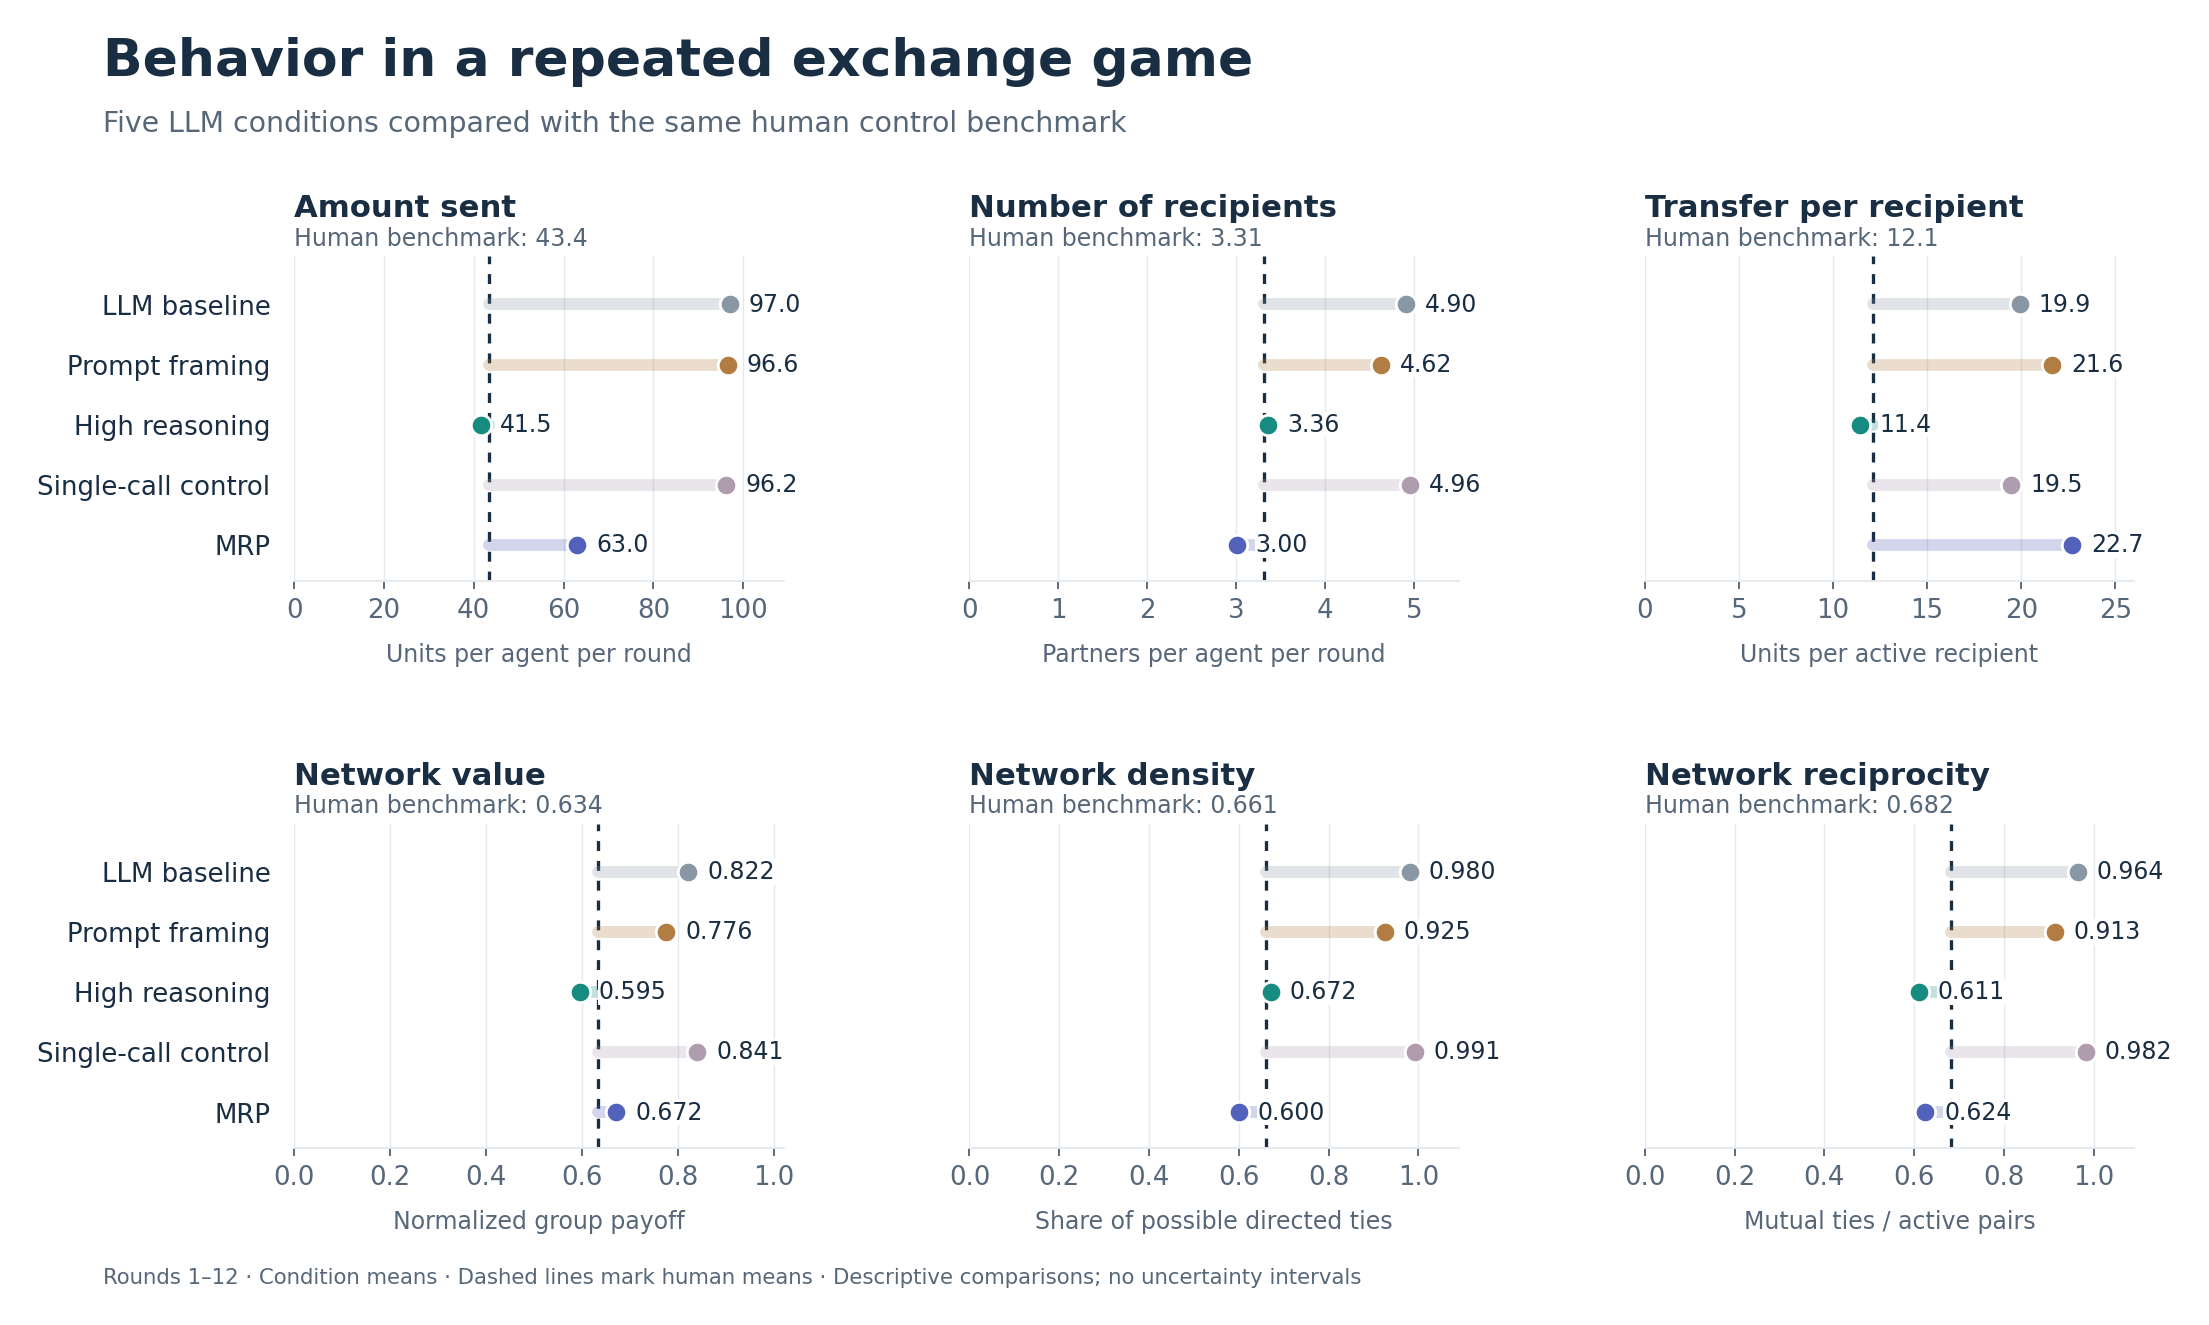
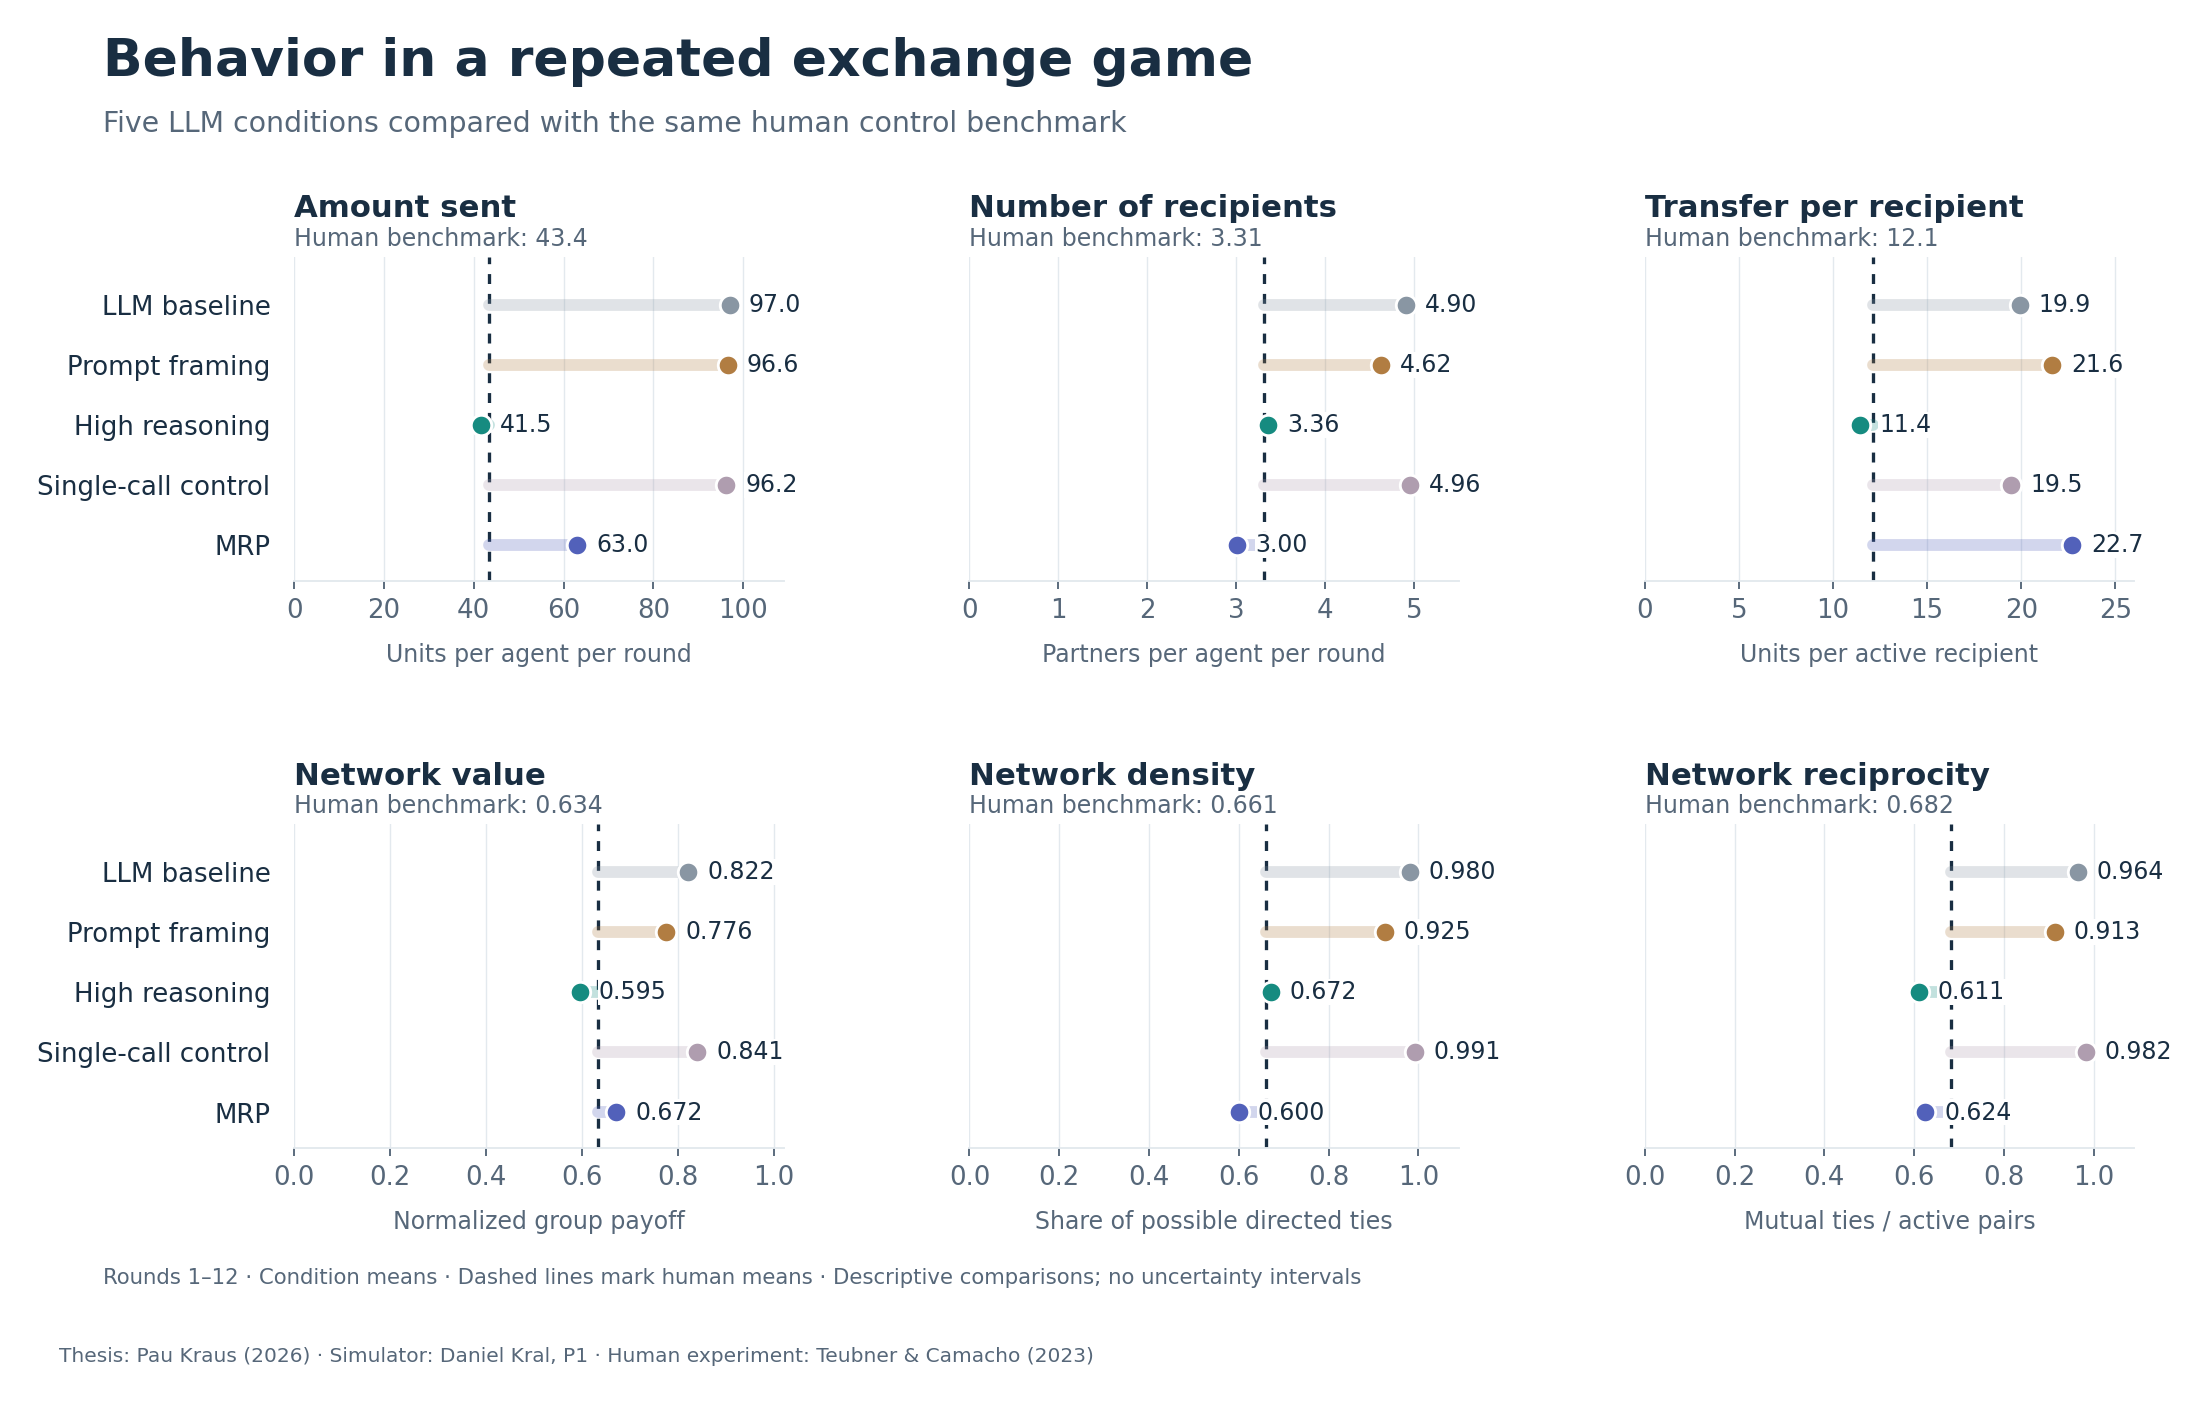
Clarify original simulator attribution and contribution boundaries

diff --git a/scripts/build_figures.py b/scripts/build_figures.py
@@ -42,6 +42,10 @@ def style():
 
 def save(fig, name):
     OUT.mkdir(exist_ok=True)
+    credit = ('MRP adaptation: Pau Kraus · Architecture: Park et al. (2023) · Simulator: Daniel Kral, P1'
+              if name == 'mrp_protocol' else
+              'Thesis: Pau Kraus (2026) · Simulator: Daniel Kral, P1 · Human experiment: Teubner & Camacho (2023)')
+    fig.text(0.055, -0.035, credit, fontsize=8.5, color=MUTED)
     fig.savefig(OUT / f'{name}.png', dpi=170, bbox_inches='tight', pad_inches=0.22)
     svg = OUT / f'{name}.svg'
     fig.savefig(svg, bbox_inches='tight', pad_inches=0.22, metadata={'Date': None})

diff --git a/README.md b/README.md
@@ -5,6 +5,11 @@
 A visual research portfolio for my thesis, *Engineering Behavioral Fidelity in
 LLM Agents for Economic Simulations*.
 
+**Built on Daniel Kral's original P1 implementation**, which recreates the
+repeated exchange game of [Teubner and Camacho (2023)](https://doi.org/10.1007/s10726-023-09814-4).
+My thesis extends that foundation with the interventions and analysis presented
+here. Daniel also supervised the thesis. [Contributions and attribution](ATTRIBUTION.md).
+
 ### Can LLM agents reproduce human behavior in this repeated game?
 
 I study **one repeated, six-player gift-exchange game**: how much agents share,
@@ -159,18 +164,25 @@ are maintained separately for research inspection.
 | [Li & Shirado (2025)](https://aclanthology.org/2025.emnlp-main.267/) | Prior evidence relating deliberation to changes in giving; motivation for examining a reasoning-effort intervention here. |
 | [Park et al. (2023)](https://arxiv.org/abs/2304.03442) | The architectural precedent for memory, reflection, and planning; adapted here into a periodic protocol for repeated exchange. |
 
-The numerical LLM results shown above come from **my thesis runs**. The human
+The numerical LLM results shown above come from **my thesis runs on the
+extended P1 implementation originally developed by Daniel Kral**. The human
 values are reconstructed from the original control data. The cited studies
 supply the benchmark or motivate the design; they are not the source of these
 intervention results. [Full references and scope of each citation](docs/REFERENCES.md).
 
-## My contribution
+## Contributions
 
-Building on Daniel Kral's original exchange-game implementation, I developed
-and evaluated the thesis interventions, including the periodic MRP architecture
-and its single-call comparison. I assembled the final experimental evidence,
-compared agent behavior with the human benchmark, and analyzed both aggregate
-outcomes and relationship-level dynamics.
+| Contributor | Contribution |
+| :--- | :--- |
+| **Timm Teubner and Sonia Camacho** | The original human experiment, repeated-game design, and human benchmark |
+| **Daniel Kral** | The original P1 implementation that recreates the experiment with LLM agents; the software foundation used for the thesis; thesis supervision |
+| **Pau Kraus** | Thesis interventions and their evaluation, including the periodic MRP adaptation and single-call comparison; final thesis runs, behavioral comparisons, analysis, and this public showcase |
+| **Park and colleagues** | The published architectural precedent for combining memory, reflection, and planning |
+
+My work extends the existing game implementation. The thesis contribution is
+in the interventions and evaluation of behavioral fidelity within that repeated
+game. The original game, human dataset, and base LLM simulator are credited to
+their respective authors above.
 
 The work combines **Python agent development, experimental design, network
 analysis, longitudinal statistical models, and reproducibility checks**. The
@@ -178,8 +190,9 @@ research archive includes offline replay checks covering all 30 LLM cohorts.
 
 ## Explore the results yourself
 
-The code in this showcase is newly written to reproduce these visualizations
-from the included aggregate tables and illustrate the protocol. It runs
+This repository contains standalone code written for the showcase. It
+reproduces the visualizations from the included aggregate tables and illustrates
+the MRP schedule. It runs
 without an API key or access to participant records. It does not rerun the
 original experiments or refit the thesis's statistical models.
 
@@ -223,4 +236,6 @@ research archive.
 Please distinguish this showcase and its thesis results from the underlying
 human experiment and architectural literature when citing them. Use
 [CITATION.cff](CITATION.cff) for the showcase and
-[the reference list](docs/REFERENCES.md) for the original sources.
+[the reference list](docs/REFERENCES.md) for the original sources. The
+showcase citation identifies this repository only; it does not attribute the
+underlying simulator or human experiment to Pau Kraus.

diff --git a/ATTRIBUTION.md b/ATTRIBUTION.md
@@ -1,0 +1,49 @@
+# Contributions and attribution
+
+This repository presents Pau Kraus's thesis extensions and findings within a
+research project built on existing experimental work and software.
+
+## The research foundation
+
+**Timm Teubner and Sonia Camacho** developed the original human repeated
+exchange experiment. Their control-treatment evidence supplies the human
+benchmark. The game design and human data are attributed to them.
+
+**Daniel Kral** developed *P1*, the original implementation recreating that
+experiment with LLM agents, and supervised the thesis. His software supplies
+the experimental foundation, including the base game implementation from which
+the thesis's baseline and intervention conditions were run.
+
+**Pau Kraus** extended that implementation for the thesis interventions,
+conducted their evaluation, and assembled the final thesis runs, comparisons,
+and analysis. The periodic memory–reflection–planning adaptation builds on
+the architectural ideas of **Park and colleagues (2023)**.
+
+Full source details are in [the reference list](docs/REFERENCES.md).
+
+## What is included here
+
+The public Python files are standalone scripts written for this showcase:
+plotting the aggregate tables, comparing means, illustrating the MRP update
+schedule, and checking those calculations. The figures are generated by these
+scripts. They present thesis results obtained using the extended research
+implementation; their labels credit that experimental foundation.
+
+The aggregate result tables preserve the provenance of the LLM thesis runs and
+the separate human experiment. This repository does not contain P1's simulator
+modules, original prompt templates, raw participant records, full model
+transcripts, or the thesis manuscript. The example schedule illustrates the
+protocol and is not the implementation that generated the experimental data.
+
+## Respecting the private source
+
+Daniel's source repository carries an all-rights-reserved notice restricting
+redistribution and publication of its code without explicit permission. This
+showcase does not grant rights to that private implementation or imply
+permission to republish it. Attribution records the contribution; publishing
+any original implementation material would require the appropriate permission.
+
+The showcase citation names Pau Kraus for this repository. It does not claim
+authorship of the original simulator, human experiment, or general MRP idea,
+and it does not imply endorsement or coauthorship of the showcase by its cited
+contributors.

diff --git a/data/README.md b/data/README.md
@@ -1,6 +1,9 @@
 # Data in this showcase
 
-These are aggregate outputs of Pau Kraus's submitted master's thesis. No
+These are aggregate outputs of Pau Kraus's submitted master's thesis. The
+LLM results were produced with the thesis extensions to Daniel Kral's original
+P1 implementation. The human control evidence comes from Teubner and Camacho
+(2023). These sources are distinct from the visualization code supplied here. No
 participant-level records, individual model transcripts, or manuscript files
 are included.
 
@@ -28,3 +31,6 @@ formation is undefined. Other displayed relationship measures use all cohorts.
 The visualization scripts are newly written for this showcase. Figures are
 generated directly from these tables. The original simulator, statistical
 fitting code, and raw experimental archive are maintained separately.
+
+See [contributions and attribution](../ATTRIBUTION.md) for the scope of the
+public material and the original implementation credit.

diff --git a/docs/REFERENCES.md b/docs/REFERENCES.md
@@ -21,7 +21,9 @@ avatars; those treatment effects are outside this thesis's tested scope.
 **Kral, D. (2026).** *P1* [Research software; private repository], version
 `1534a41ac07748724cf62b198046da9235de6c3c`. GitHub, `Sertorius73/P1`.
 
-Daniel Kral provided the LLM recreation of the game and supervised the thesis.
+Daniel Kral developed the original LLM recreation of the game and supervised
+the thesis. This implementation is the experimental foundation of the thesis
+runs, including the no-intervention baseline.
 Pau Kraus extended this foundation for the interventions and analysis. This is
 a software attribution, not a claim that Kral published a peer-reviewed article
 with the thesis results. The private simulator is not included in this public
